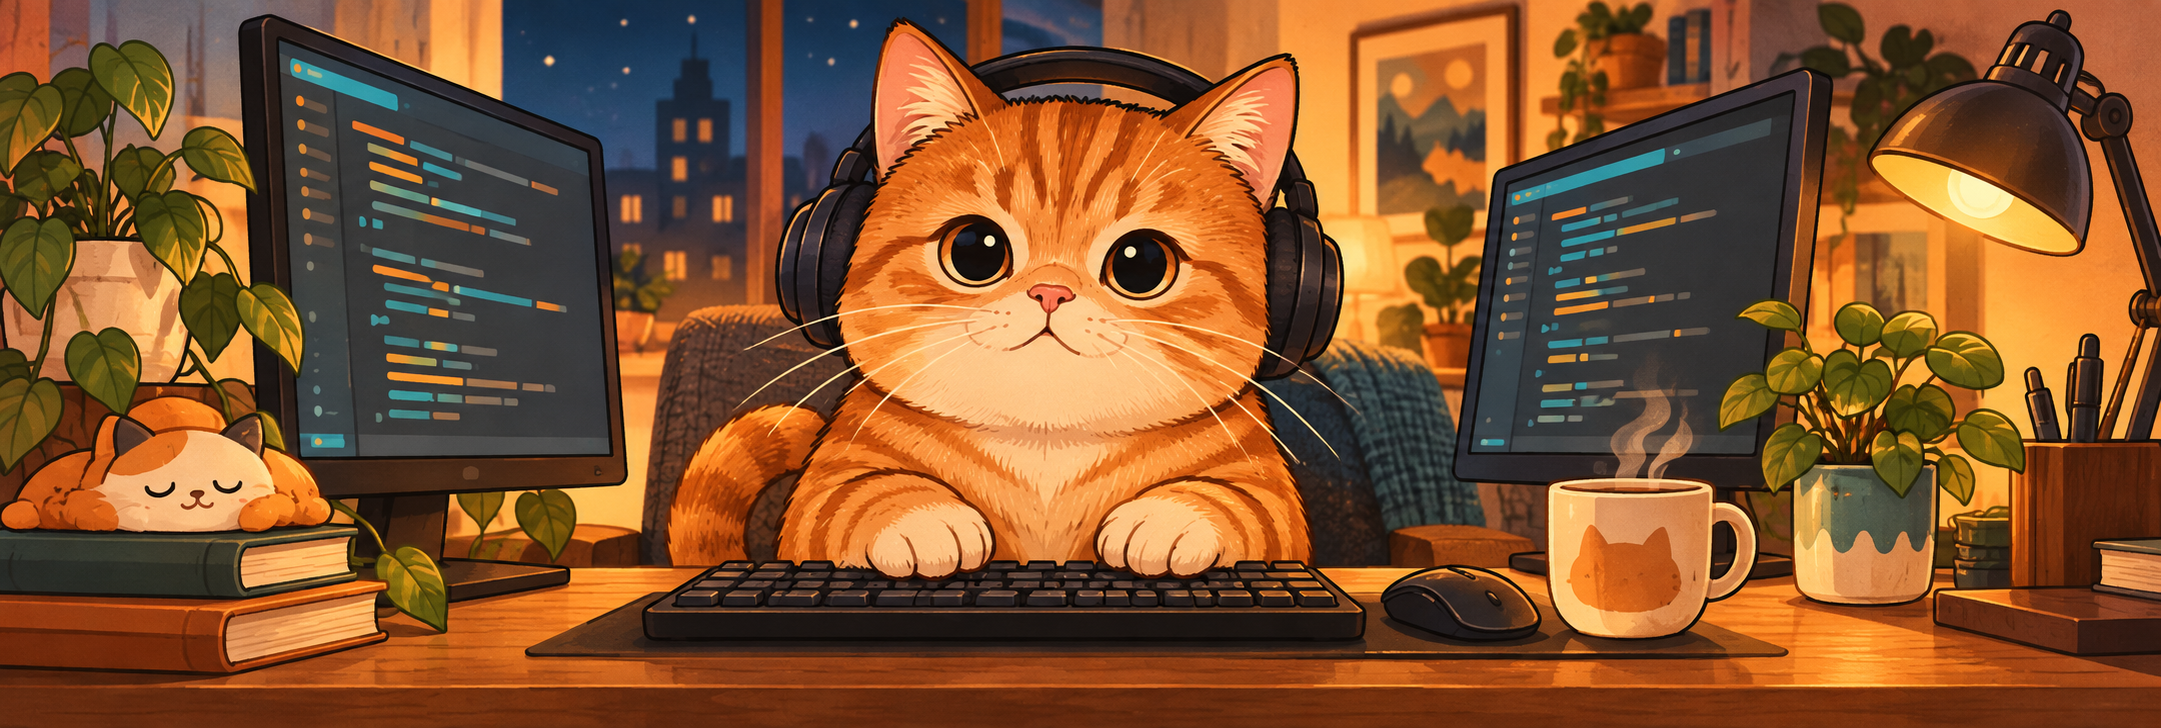
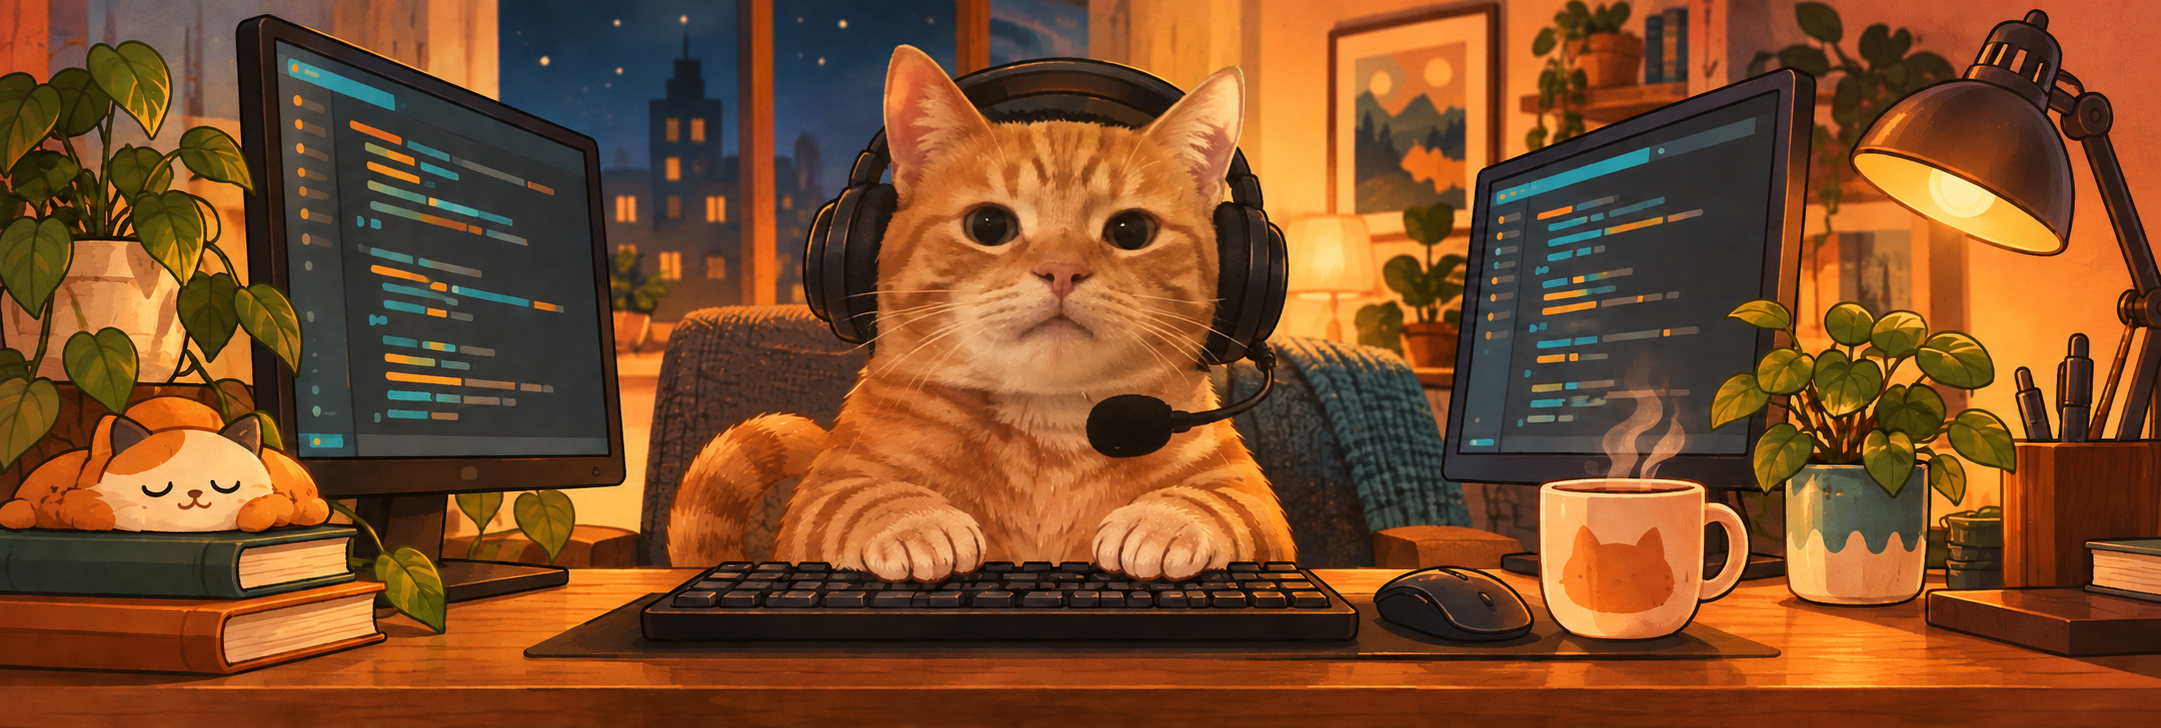
Refresh profile with goofy gaming cat theme

diff --git a/README.md b/README.md
@@ -1,35 +1,34 @@
 <div align="center">
-  <img src="assets/profile-banner.png" alt="Kulaklıklı turuncu bir kedinin sıcak renkli çalışma masası illüstrasyonu" width="100%" />
+  <img src="assets/profile-banner.png" alt="Mikrofonlu kulaklığıyla kod ekranları arasında boş boş bakan turuncu kedi" width="100%" />
 </div>
 
-# Selam, ben ceritahmt 👋
+# Selam, ben ceritahmt 🎧
 
-**Kulaklık açık. Bug avı başladı.** 🎧🐈
+**Bakışlar boş. Terminal dolu.** 🐈
 
-Küçük bir sorunu çözerken işe yarar bir araç ortaya çıkarsa, onu burada paylaşıyorum.
+Web ve operasyon uygulamaları, Android barkod/depo akışları, Godot ile küçük 2D oyunlar ve IoT/elektronik kartlarla uğraşıyorum. AI ajanları, MCP ve otomasyonla tekrar eden işleri azaltmak hoşuma gidiyor.
 
 ```text
-$ git status
-On branch merak
-Changes to be committed:
-  + bir fikir
-  + bir fincan kahve
-  + "son bir düzeltme"
+$ cat current_quest.txt
+Son bir el.
+Son bir commit.
+Acaba bunu otomatikleştirsek?
 ```
 
-### Tezgâhtan çıkanlar
+### Envanterdeki projeler
 
 | Proje | Ne yapıyor? |
 | --- | --- |
-| [OpenCode Account Switcher](https://github.com/ceritahmt/opencode-account-switcher) | OpenCode'da birden fazla sağlayıcı hesabını CLI/TUI üzerinden yönetmeye yardımcı olur. |
-| [MySQL Readonly MCP](https://github.com/ceritahmt/mysql-readonly-mcp) · fork | MySQL için salt okunur bir MCP sunucusu. [Orijinal proje](https://github.com/beydemirfurkan/mysql-readonly-mcp). |
+| [OpenCode Account Switcher](https://github.com/ceritahmt/opencode-account-switcher) | OpenCode'da birden fazla sağlayıcı hesabını CLI/TUI üzerinden yönetir. Hesap seçme ekranı: mini boss. |
+| [MySQL Readonly MCP](https://github.com/ceritahmt/mysql-readonly-mcp) · fork | MySQL için salt okunur bir MCP sunucusu. Veritabanına bak, dokunma. [Orijinal proje](https://github.com/beydemirfurkan/mysql-readonly-mcp). |
 
 <details>
-<summary>🐾 Minik bir terminal sırrı</summary>
+<summary>🎮 Gizli görev</summary>
 
 ```text
 $ cat bug-report.txt
-Kedi klavyenin üstünde. Sorun yeniden üretilemedi.
+Kedi klavyenin üstünde.
+Bug yeniden üretilemedi. Oyunu o kazandı.
 ```
 
 </details>
